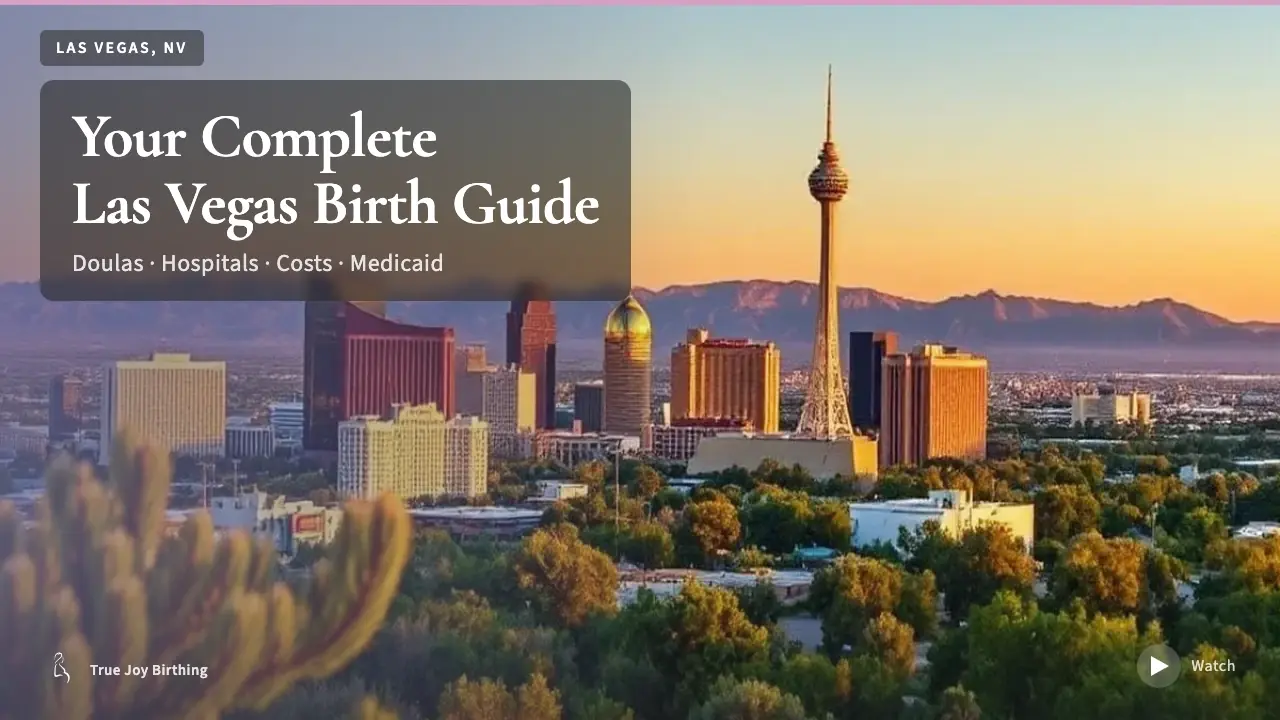
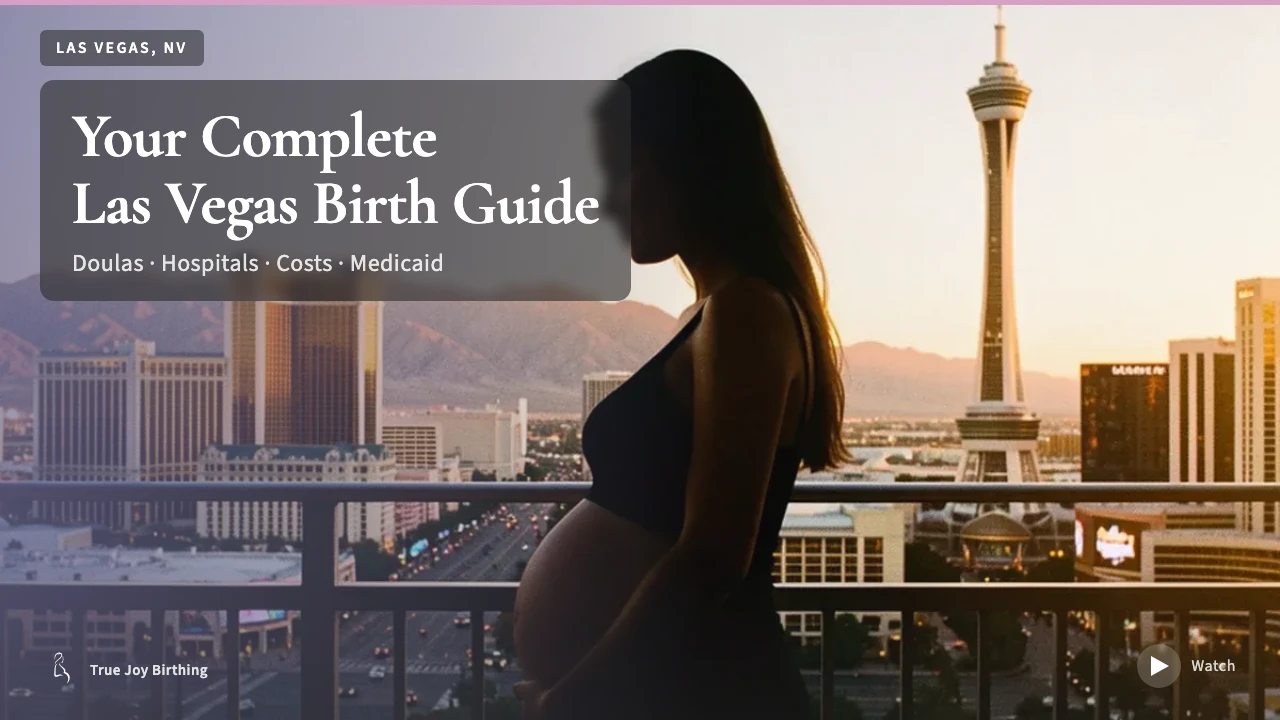
deploy: 2026-09-03 11:43 — deploy: 2026-09-03 11:40 — deploy: 2026-09-03 11:36 — update city-audit.json and tjb-city-status.json for fresno-ca video+outreach complete

diff --git a/src/data/video-embeds.ts b/src/data/video-embeds.ts
@@ -290,11 +290,11 @@ export const cityVideoEmbeds: Record<string, CityVideoEmbed> = {
     uploadDate: "2026-06-29T00:00:00-07:00",
   },
   "las-vegas-nv": {
-    videoId: "r319yZgnxeE",
-    title: "Las Vegas Doula & Birth Plan Guide: Costs, Hospitals & Insurance (First-Time Mom)",
-    description: "Watch the full city guide — doulas, hospitals, costs, and Nevada Medicaid, all in under 3 minutes.",
-    duration: "PT2M07S",
-    uploadDate: "2026-06-23T00:00:00-07:00",
+    videoId: "5E46E1s0HSE",
+    title: "Las Vegas NV Doula & Birth Guide: Hospitals, Costs & Medicaid (First-Time Mom)",
+    description: "Watch the full city guide — 3 hospitals, Serenity Birth Center, 4 doulas, costs, and Nevada Medicaid coverage, all in under 6 minutes.",
+    duration: "PT5M33S",
+    uploadDate: "2026-09-03T11:42:43-06:00",
   },
   "henderson-nv": {
     videoId: "5CZCNASCKWo",
